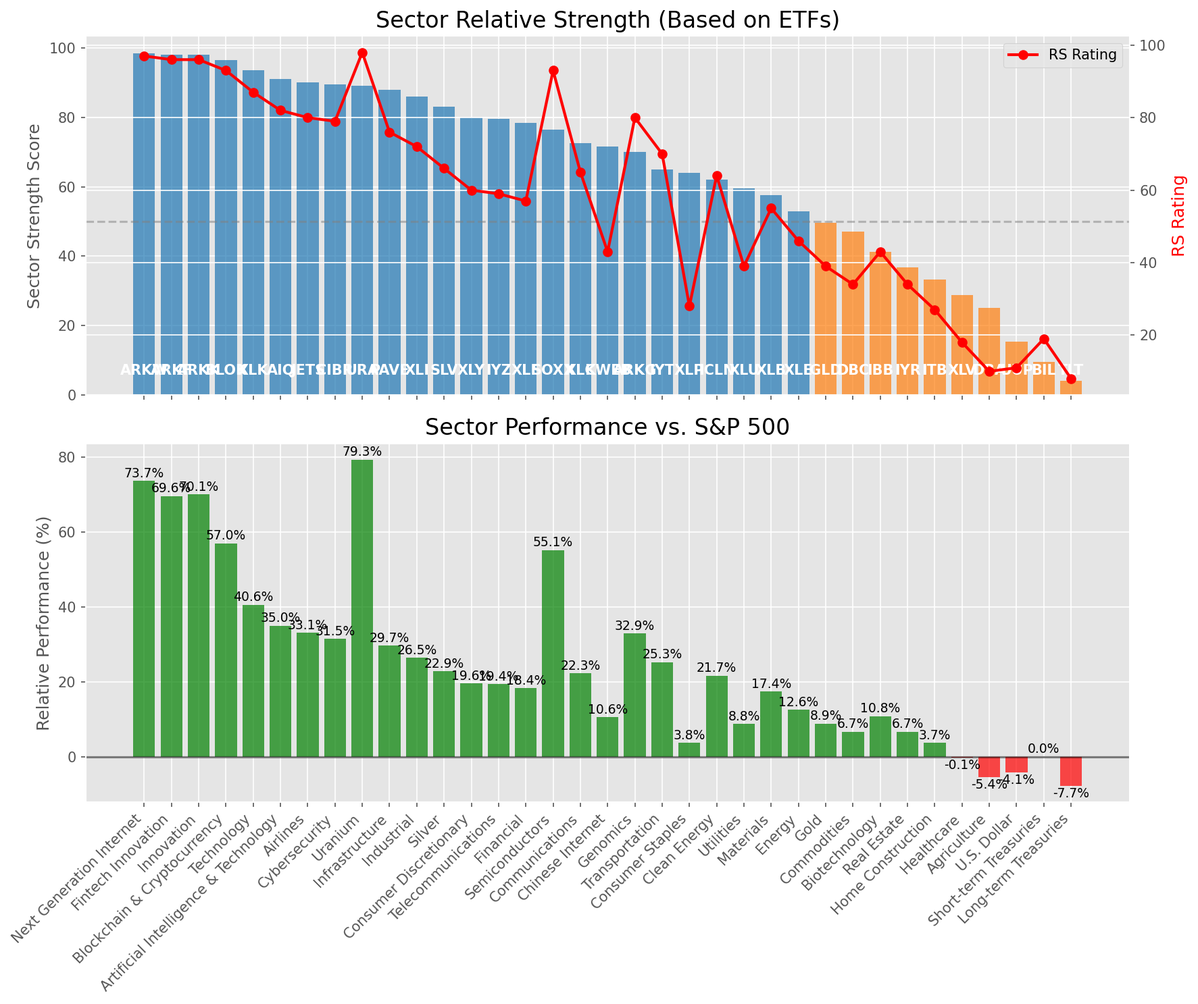
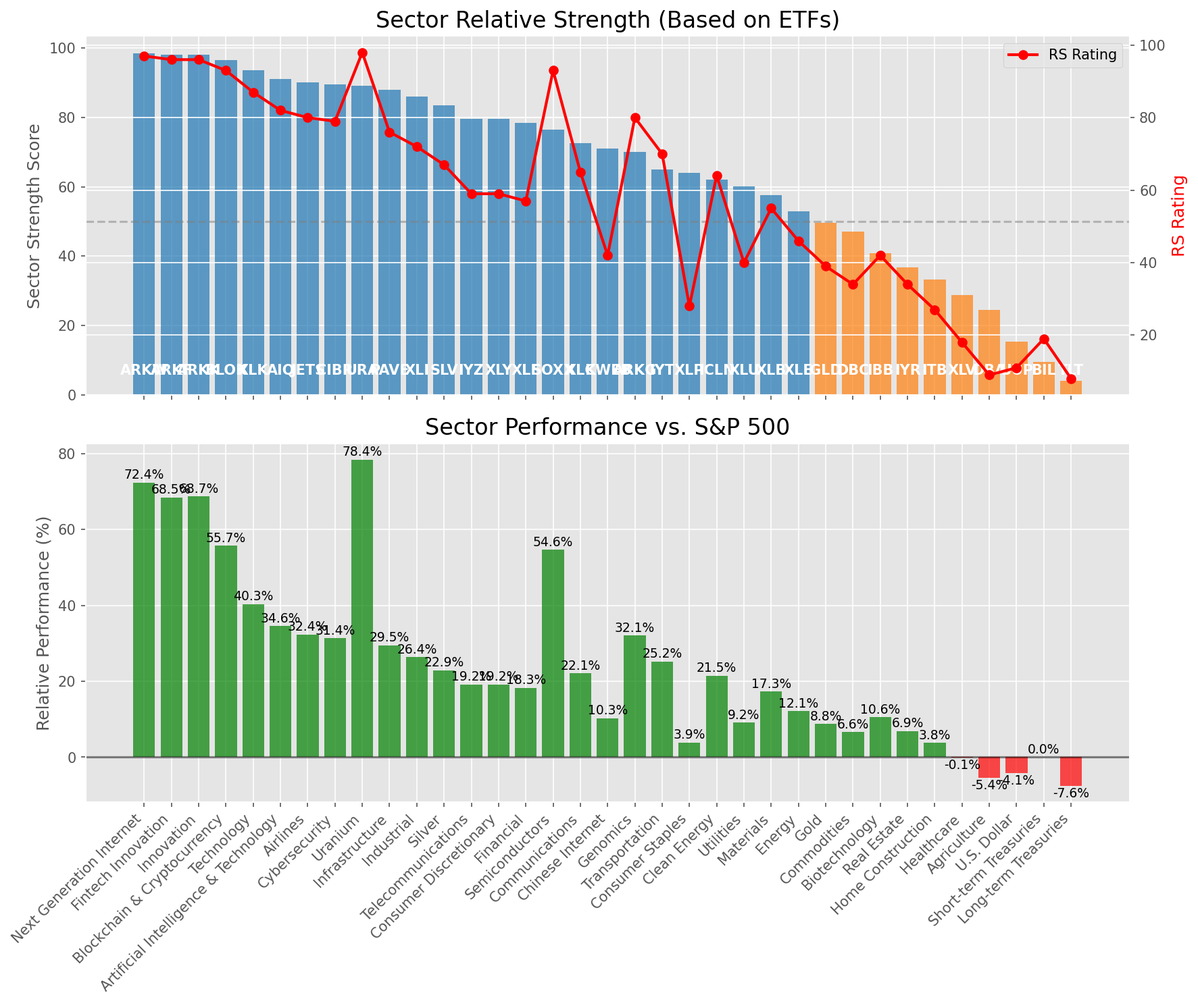
Add market report for 2025-07-08

diff --git a/oneil_relative_strength_report_2025-07-08.md b/oneil_relative_strength_report_2025-07-08.md
@@ -9,11 +9,11 @@
 | Metric | Value |
 |--------|-------|
 | **Market Valuation** | **Overvalued** |
-| **Current Ratio** | 10.21 |
+| **Current Ratio** | 10.20 |
 | **Historical Mean** | 9.41 |
 | **Standard Deviation** | 0.50 |
 | **Z-Score (StdDev from Mean)** | 1.59 |
-| **Total Market Cap** | $306.05 trillion |
+| **Total Market Cap** | $305.58 trillion |
 | **GDP** | $29.96 trillion |
 
 ## **Market Insights**
@@ -49,41 +49,41 @@ Based on William O'Neil's Relative Strength Methodology
 
 | ETF | Strength | RS Rating | Performance | Above Key MAs | Trend | Sector |
 |-----|----------|-----------|-------------|--------------|-------|--------|
-| [ARKW](https://www.tradingview.com/chart/?symbol=ARKW) | 98.5 | 97.0 | 73.66% | 10d ✓, 50d ✓, 200d ✓ | ↗ | Next Generation Internet |
-| [ARKF](https://www.tradingview.com/chart/?symbol=ARKF) | 98.0 | 96.0 | 69.58% | 10d ✓, 50d ✓, 200d ✓ | ↗ | Fintech Innovation |
-| [ARKK](https://www.tradingview.com/chart/?symbol=ARKK) | 98.0 | 96.0 | 70.08% | 10d ✓, 50d ✓, 200d ✓ | ↗ | Innovation |
-| [BLOK](https://www.tradingview.com/chart/?symbol=BLOK) | 96.5 | 93.0 | 56.97% | 10d ✓, 50d ✓, 200d ✓ | ↗ | Blockchain & Cryptocurrency |
-| [XLK](https://www.tradingview.com/chart/?symbol=XLK) | 93.5 | 87.0 | 40.61% | 10d ✓, 50d ✓, 200d ✓ | ↗ | Technology |
-| [AIQ](https://www.tradingview.com/chart/?symbol=AIQ) | 91.0 | 82.0 | 35.05% | 10d ✓, 50d ✓, 200d ✓ | ↗ | Artificial Intelligence & Technology |
-| [JETS](https://www.tradingview.com/chart/?symbol=JETS) | 90.0 | 80.0 | 33.08% | 10d ✓, 50d ✓, 200d ✓ | ↗ | Airlines |
-| [CIBR](https://www.tradingview.com/chart/?symbol=CIBR) | 89.5 | 79.0 | 31.49% | 10d ✓, 50d ✓, 200d ✓ | ↗ | Cybersecurity |
-| [URA](https://www.tradingview.com/chart/?symbol=URA) | 89.1 | 98.0 | 79.30% | 10d ✗, 50d ✓, 200d ✓ | ↗ | Uranium |
-| [PAVE](https://www.tradingview.com/chart/?symbol=PAVE) | 88.0 | 76.0 | 29.69% | 10d ✓, 50d ✓, 200d ✓ | ↗ | Infrastructure |
-| [XLI](https://www.tradingview.com/chart/?symbol=XLI) | 86.0 | 72.0 | 26.46% | 10d ✓, 50d ✓, 200d ✓ | ↗ | Industrial |
-| [SLV](https://www.tradingview.com/chart/?symbol=SLV) | 83.0 | 66.0 | 22.90% | 10d ✓, 50d ✓, 200d ✓ | ↗ | Silver |
-| [XLY](https://www.tradingview.com/chart/?symbol=XLY) | 80.0 | 60.0 | 19.59% | 10d ✓, 50d ✓, 200d ✓ | ↗ | Consumer Discretionary |
-| [IYZ](https://www.tradingview.com/chart/?symbol=IYZ) | 79.5 | 59.0 | 19.41% | 10d ✓, 50d ✓, 200d ✓ | ↗ | Telecommunications |
-| [XLF](https://www.tradingview.com/chart/?symbol=XLF) | 78.5 | 57.0 | 18.39% | 10d ✓, 50d ✓, 200d ✓ | ↗ | Financial |
-| [SOXX](https://www.tradingview.com/chart/?symbol=SOXX) | 76.5 | 93.0 | 55.14% | 10d ✓, 50d ✓, 200d ✓ | ↘ | Semiconductors |
-| [XLC](https://www.tradingview.com/chart/?symbol=XLC) | 72.6 | 65.0 | 22.34% | 10d ✗, 50d ✓, 200d ✓ | ↗ | Communications |
-| [KWEB](https://www.tradingview.com/chart/?symbol=KWEB) | 71.5 | 43.0 | 10.60% | 10d ✓, 50d ✓, 200d ✓ | ↗ | Chinese Internet |
-| [ARKG](https://www.tradingview.com/chart/?symbol=ARKG) | 70.0 | 80.0 | 32.92% | 10d ✓, 50d ✓, 200d ✓ | ↘ | Genomics |
-| [IYT](https://www.tradingview.com/chart/?symbol=IYT) | 65.0 | 70.0 | 25.30% | 10d ✓, 50d ✓, 200d ✓ | ↘ | Transportation |
-| [XLP](https://www.tradingview.com/chart/?symbol=XLP) | 64.0 | 28.0 | 3.79% | 10d ✓, 50d ✓, 200d ✓ | ↗ | Consumer Staples |
-| [ICLN](https://www.tradingview.com/chart/?symbol=ICLN) | 62.0 | 64.0 | 21.69% | 10d ✓, 50d ✓, 200d ✓ | ↘ | Clean Energy |
-| [XLU](https://www.tradingview.com/chart/?symbol=XLU) | 59.6 | 39.0 | 8.80% | 10d ✗, 50d ✓, 200d ✓ | ↗ | Utilities |
-| [XLB](https://www.tradingview.com/chart/?symbol=XLB) | 57.5 | 55.0 | 17.42% | 10d ✓, 50d ✓, 200d ✓ | ↘ | Materials |
-| [XLE](https://www.tradingview.com/chart/?symbol=XLE) | 53.0 | 46.0 | 12.57% | 10d ✓, 50d ✓, 200d ✓ | ↘ | Energy |
-| [GLD](https://www.tradingview.com/chart/?symbol=GLD) | 49.7 | 39.0 | 8.85% | 10d ✗, 50d ✗, 200d ✓ | ↗ | Gold |
-| [DBC](https://www.tradingview.com/chart/?symbol=DBC) | 47.0 | 34.0 | 6.73% | 10d ✓, 50d ✓, 200d ✓ | ↘ | Commodities |
-| [IBB](https://www.tradingview.com/chart/?symbol=IBB) | 41.3 | 43.0 | 10.84% | 10d ✓, 50d ✓, 200d ✗ | ↘ | Biotechnology |
-| [IYR](https://www.tradingview.com/chart/?symbol=IYR) | 36.8 | 34.0 | 6.72% | 10d ✓, 50d ✓, 200d ✗ | ↘ | Real Estate |
-| [ITB](https://www.tradingview.com/chart/?symbol=ITB) | 33.3 | 27.0 | 3.73% | 10d ✓, 50d ✓, 200d ✗ | ↘ | Home Construction |
-| [XLV](https://www.tradingview.com/chart/?symbol=XLV) | 28.8 | 18.0 | -0.14% | 10d ✓, 50d ✓, 200d ✗ | ↘ | Healthcare |
-| [DBA](https://www.tradingview.com/chart/?symbol=DBA) | 25.0 | 10.0 | -5.41% | 10d ✗, 50d ✗, 200d ✗ | ↗ | Agriculture |
-| [UUP](https://www.tradingview.com/chart/?symbol=UUP) | 15.4 | 11.0 | -4.10% | 10d ✓, 50d ✗, 200d ✗ | ↘ | U.S. Dollar |
-| [BIL](https://www.tradingview.com/chart/?symbol=BIL) | 9.5 | 19.0 | 0.03% | 10d ✗, 50d ✗, 200d ✗ | ↘ | Short-term Treasuries |
-| [TLT](https://www.tradingview.com/chart/?symbol=TLT) | 4.0 | 8.0 | -7.73% | 10d ✗, 50d ✗, 200d ✗ | ↘ | Long-term Treasuries |
+| [ARKW](https://www.tradingview.com/chart/?symbol=ARKW) | 98.5 | 97.0 | 72.41% | 10d ✓, 50d ✓, 200d ✓ | ↗ | Next Generation Internet |
+| [ARKF](https://www.tradingview.com/chart/?symbol=ARKF) | 98.0 | 96.0 | 68.47% | 10d ✓, 50d ✓, 200d ✓ | ↗ | Fintech Innovation |
+| [ARKK](https://www.tradingview.com/chart/?symbol=ARKK) | 98.0 | 96.0 | 68.72% | 10d ✓, 50d ✓, 200d ✓ | ↗ | Innovation |
+| [BLOK](https://www.tradingview.com/chart/?symbol=BLOK) | 96.5 | 93.0 | 55.71% | 10d ✓, 50d ✓, 200d ✓ | ↗ | Blockchain & Cryptocurrency |
+| [XLK](https://www.tradingview.com/chart/?symbol=XLK) | 93.5 | 87.0 | 40.34% | 10d ✓, 50d ✓, 200d ✓ | ↗ | Technology |
+| [AIQ](https://www.tradingview.com/chart/?symbol=AIQ) | 91.0 | 82.0 | 34.60% | 10d ✓, 50d ✓, 200d ✓ | ↗ | Artificial Intelligence & Technology |
+| [JETS](https://www.tradingview.com/chart/?symbol=JETS) | 90.0 | 80.0 | 32.36% | 10d ✓, 50d ✓, 200d ✓ | ↗ | Airlines |
+| [CIBR](https://www.tradingview.com/chart/?symbol=CIBR) | 89.5 | 79.0 | 31.39% | 10d ✓, 50d ✓, 200d ✓ | ↗ | Cybersecurity |
+| [URA](https://www.tradingview.com/chart/?symbol=URA) | 89.1 | 98.0 | 78.41% | 10d ✗, 50d ✓, 200d ✓ | ↗ | Uranium |
+| [PAVE](https://www.tradingview.com/chart/?symbol=PAVE) | 88.0 | 76.0 | 29.51% | 10d ✓, 50d ✓, 200d ✓ | ↗ | Infrastructure |
+| [XLI](https://www.tradingview.com/chart/?symbol=XLI) | 86.0 | 72.0 | 26.36% | 10d ✓, 50d ✓, 200d ✓ | ↗ | Industrial |
+| [SLV](https://www.tradingview.com/chart/?symbol=SLV) | 83.5 | 67.0 | 22.90% | 10d ✓, 50d ✓, 200d ✓ | ↗ | Silver |
+| [IYZ](https://www.tradingview.com/chart/?symbol=IYZ) | 79.5 | 59.0 | 19.17% | 10d ✓, 50d ✓, 200d ✓ | ↗ | Telecommunications |
+| [XLY](https://www.tradingview.com/chart/?symbol=XLY) | 79.5 | 59.0 | 19.20% | 10d ✓, 50d ✓, 200d ✓ | ↗ | Consumer Discretionary |
+| [XLF](https://www.tradingview.com/chart/?symbol=XLF) | 78.5 | 57.0 | 18.27% | 10d ✓, 50d ✓, 200d ✓ | ↗ | Financial |
+| [SOXX](https://www.tradingview.com/chart/?symbol=SOXX) | 76.5 | 93.0 | 54.64% | 10d ✓, 50d ✓, 200d ✓ | ↘ | Semiconductors |
+| [XLC](https://www.tradingview.com/chart/?symbol=XLC) | 72.6 | 65.0 | 22.14% | 10d ✗, 50d ✓, 200d ✓ | ↗ | Communications |
+| [KWEB](https://www.tradingview.com/chart/?symbol=KWEB) | 71.0 | 42.0 | 10.28% | 10d ✓, 50d ✓, 200d ✓ | ↗ | Chinese Internet |
+| [ARKG](https://www.tradingview.com/chart/?symbol=ARKG) | 70.0 | 80.0 | 32.05% | 10d ✓, 50d ✓, 200d ✓ | ↘ | Genomics |
+| [IYT](https://www.tradingview.com/chart/?symbol=IYT) | 65.0 | 70.0 | 25.18% | 10d ✓, 50d ✓, 200d ✓ | ↘ | Transportation |
+| [XLP](https://www.tradingview.com/chart/?symbol=XLP) | 64.0 | 28.0 | 3.87% | 10d ✓, 50d ✓, 200d ✓ | ↗ | Consumer Staples |
+| [ICLN](https://www.tradingview.com/chart/?symbol=ICLN) | 62.0 | 64.0 | 21.51% | 10d ✓, 50d ✓, 200d ✓ | ↘ | Clean Energy |
+| [XLU](https://www.tradingview.com/chart/?symbol=XLU) | 60.1 | 40.0 | 9.15% | 10d ✗, 50d ✓, 200d ✓ | ↗ | Utilities |
+| [XLB](https://www.tradingview.com/chart/?symbol=XLB) | 57.5 | 55.0 | 17.26% | 10d ✓, 50d ✓, 200d ✓ | ↘ | Materials |
+| [XLE](https://www.tradingview.com/chart/?symbol=XLE) | 53.0 | 46.0 | 12.11% | 10d ✓, 50d ✓, 200d ✓ | ↘ | Energy |
+| [GLD](https://www.tradingview.com/chart/?symbol=GLD) | 49.7 | 39.0 | 8.79% | 10d ✗, 50d ✗, 200d ✓ | ↗ | Gold |
+| [DBC](https://www.tradingview.com/chart/?symbol=DBC) | 47.0 | 34.0 | 6.59% | 10d ✓, 50d ✓, 200d ✓ | ↘ | Commodities |
+| [IBB](https://www.tradingview.com/chart/?symbol=IBB) | 40.8 | 42.0 | 10.56% | 10d ✓, 50d ✓, 200d ✗ | ↘ | Biotechnology |
+| [IYR](https://www.tradingview.com/chart/?symbol=IYR) | 36.8 | 34.0 | 6.86% | 10d ✓, 50d ✓, 200d ✗ | ↘ | Real Estate |
+| [ITB](https://www.tradingview.com/chart/?symbol=ITB) | 33.3 | 27.0 | 3.76% | 10d ✓, 50d ✓, 200d ✗ | ↘ | Home Construction |
+| [XLV](https://www.tradingview.com/chart/?symbol=XLV) | 28.8 | 18.0 | -0.13% | 10d ✓, 50d ✓, 200d ✗ | ↘ | Healthcare |
+| [DBA](https://www.tradingview.com/chart/?symbol=DBA) | 24.5 | 9.0 | -5.41% | 10d ✗, 50d ✗, 200d ✗ | ↗ | Agriculture |
+| [UUP](https://www.tradingview.com/chart/?symbol=UUP) | 15.4 | 11.0 | -4.12% | 10d ✓, 50d ✗, 200d ✗ | ↘ | U.S. Dollar |
+| [BIL](https://www.tradingview.com/chart/?symbol=BIL) | 9.5 | 19.0 | 0.04% | 10d ✗, 50d ✗, 200d ✗ | ↘ | Short-term Treasuries |
+| [TLT](https://www.tradingview.com/chart/?symbol=TLT) | 4.0 | 8.0 | -7.57% | 10d ✗, 50d ✗, 200d ✗ | ↘ | Long-term Treasuries |
 
 ### **Sector ETF Performance Interpretation**
 
@@ -100,163 +100,157 @@ This table shows the relative strength metrics for different market sectors base
 
 The current market leadership is coming from the following sectors: **Next Generation Internet, Fintech Innovation, Innovation**.
 
-The **Next Generation Internet** sector (represented by **ARKW**) is showing particularly strong relative strength with an RS rating of 97.0 and performance of 73.66% vs. the S&P 500. This sector is trading above its 10-day, 50-day, 200-day moving average(s). Investors should consider focusing on high RS stocks within these leading sectors for potential outperformance.
+The **Next Generation Internet** sector (represented by **ARKW**) is showing particularly strong relative strength with an RS rating of 97.0 and performance of 72.41% vs. the S&P 500. This sector is trading above its 10-day, 50-day, 200-day moving average(s). Investors should consider focusing on high RS stocks within these leading sectors for potential outperformance.
 
 ---
 
 ## **Buy Recommendations**
 
-The following 43 stocks show exceptional relative strength:
+The following 38 stocks show exceptional relative strength:
 
 | RS Rating | Buy Score | Current Price | Chart | Name | Ticker |
 |-----------|-----------|---------------|-------|------|--------|
-| 100 | 100 | $154.93 | [Chart](https://www.tradingview.com/chart/?symbol=CLS) | Celestica, Inc. | CLS |
-| 100 | 100 | $178.52 | [Chart](https://www.tradingview.com/chart/?symbol=LEU) | Centrus Energy Corp. | LEU |
-| 100 | 100 | $92.69 | [Chart](https://www.tradingview.com/chart/?symbol=HOOD) | Robinhood Markets, Inc. Class A Common Stock | HOOD |
-| 100 | 100 | $267.08 | [Chart](https://www.tradingview.com/chart/?symbol=DAVE) | Dave Inc. Class A Common Stock | DAVE |
-| 100 | 100 | $37.30 | [Chart](https://www.tradingview.com/chart/?symbol=GRPN) | Groupon, Inc.Common Stock | GRPN |
-| 99 | 100 | $529.69 | [Chart](https://www.tradingview.com/chart/?symbol=GEV) | GE Vernova Inc. | GEV |
-| 99 | 100 | $74.25 | [Chart](https://www.tradingview.com/chart/?symbol=ODD) | ODDITY Tech Ltd. Class A Ordinary Shares | ODD |
-| 99 | 100 | $192.38 | [Chart](https://www.tradingview.com/chart/?symbol=NET) | Cloudflare, Inc. Class A common stock, par value $0.001 per share | NET |
-| 99 | 100 | $104.73 | [Chart](https://www.tradingview.com/chart/?symbol=RBLX) | Roblox Corporation | RBLX |
-| 99 | 100 | $145.02 | [Chart](https://www.tradingview.com/chart/?symbol=LMB) | Limbach Holdings, Inc Common Stock | LMB |
-| 99 | 100 | $346.51 | [Chart](https://www.tradingview.com/chart/?symbol=CVNA) | Carvana Co. | CVNA |
-| 98 | 100 | $139.33 | [Chart](https://www.tradingview.com/chart/?symbol=PLTR) | Palantir Technologies Inc. Class A Common Stock | PLTR |
-| 97 | 100 | $43.96 | [Chart](https://www.tradingview.com/chart/?symbol=FARO) | Faro Technologies Inc | FARO |
-| 96 | 100 | $50.50 | [Chart](https://www.tradingview.com/chart/?symbol=ARKF) | ARK Fintech Innovation ETF | ARKF |
-| 96 | 100 | $51.11 | [Chart](https://www.tradingview.com/chart/?symbol=INOD) | Innodata Inc. | INOD |
-| 95 | 100 | $179.52 | [Chart](https://www.tradingview.com/chart/?symbol=HWM) | Howmet Aerospace Inc. | HWM |
-| 94 | 100 | $507.00 | [Chart](https://www.tradingview.com/chart/?symbol=CRWD) | CrowdStrike Holdings, Inc. Class A Common Stock | CRWD |
-| 94 | 100 | $34.16 | [Chart](https://www.tradingview.com/chart/?symbol=APG) | APi Group Corporation | APG |
-| 94 | 100 | $131.97 | [Chart](https://www.tradingview.com/chart/?symbol=FUTU) | Futu Holdings Limited American Depositary Shares | FUTU |
-| 94 | 100 | $250.16 | [Chart](https://www.tradingview.com/chart/?symbol=WWD) | Woodward, Inc. | WWD |
-| 94 | 100 | $44.32 | [Chart](https://www.tradingview.com/chart/?symbol=KTOS) | Kratos Defense & Security Solutions, Inc. | KTOS |
-| 93 | 100 | $46.28 | [Chart](https://www.tradingview.com/chart/?symbol=DRS) | Leonardo DRS, Inc. Common Stock | DRS |
-| 93 | 100 | $57.37 | [Chart](https://www.tradingview.com/chart/?symbol=IBKR) | Interactive Brokers Group, Inc. Class A Common Stock | IBKR |
-| 92 | 100 | $30.08 | [Chart](https://www.tradingview.com/chart/?symbol=NTGR) | NETGEAR, Inc. | NTGR |
-| 92 | 100 | $43.42 | [Chart](https://www.tradingview.com/chart/?symbol=KD) | Kyndryl Holdings, Inc. | KD |
-| 90 | 100 | $92.16 | [Chart](https://www.tradingview.com/chart/?symbol=TPR) | Tapestry, Inc. Common Stock | TPR |
-| 89 | 100 | $286.35 | [Chart](https://www.tradingview.com/chart/?symbol=RL) | Ralph Lauren Corporation | RL |
-| 88 | 100 | $29.42 | [Chart](https://www.tradingview.com/chart/?symbol=DB) | Deutsche Bank Aktiengesellschaft | DB |
-| 87 | 100 | $28.55 | [Chart](https://www.tradingview.com/chart/?symbol=SRAD) | Sportradar Group AG Class A Ordinary Shares | SRAD |
-| 86 | 99 | $18.34 | [Chart](https://www.tradingview.com/chart/?symbol=BCS) | Barclays PLC | BCS |
+| 100 | 100 | $91.47 | [Chart](https://www.tradingview.com/chart/?symbol=HOOD) | Robinhood Markets, Inc. Class A Common Stock | HOOD |
+| 100 | 100 | $154.49 | [Chart](https://www.tradingview.com/chart/?symbol=CLS) | Celestica, Inc. | CLS |
+| 100 | 100 | $261.25 | [Chart](https://www.tradingview.com/chart/?symbol=DAVE) | Dave Inc. Class A Common Stock | DAVE |
+| 100 | 100 | $36.92 | [Chart](https://www.tradingview.com/chart/?symbol=GRPN) | Groupon, Inc.Common Stock | GRPN |
+| 99 | 100 | $143.84 | [Chart](https://www.tradingview.com/chart/?symbol=LMB) | Limbach Holdings, Inc Common Stock | LMB |
+| 99 | 100 | $104.56 | [Chart](https://www.tradingview.com/chart/?symbol=RBLX) | Roblox Corporation | RBLX |
+| 99 | 100 | $345.50 | [Chart](https://www.tradingview.com/chart/?symbol=CVNA) | Carvana Co. | CVNA |
+| 99 | 100 | $528.52 | [Chart](https://www.tradingview.com/chart/?symbol=GEV) | GE Vernova Inc. | GEV |
+| 99 | 100 | $192.39 | [Chart](https://www.tradingview.com/chart/?symbol=NET) | Cloudflare, Inc. Class A common stock, par value $0.001 per share | NET |
+| 98 | 100 | $139.12 | [Chart](https://www.tradingview.com/chart/?symbol=PLTR) | Palantir Technologies Inc. Class A Common Stock | PLTR |
+| 97 | 100 | $43.95 | [Chart](https://www.tradingview.com/chart/?symbol=FARO) | Faro Technologies Inc | FARO |
+| 96 | 100 | $50.17 | [Chart](https://www.tradingview.com/chart/?symbol=ARKF) | ARK Fintech Innovation ETF | ARKF |
+| 96 | 100 | $50.84 | [Chart](https://www.tradingview.com/chart/?symbol=INOD) | Innodata Inc. | INOD |
+| 95 | 100 | $44.41 | [Chart](https://www.tradingview.com/chart/?symbol=KTOS) | Kratos Defense & Security Solutions, Inc. | KTOS |
+| 94 | 100 | $506.00 | [Chart](https://www.tradingview.com/chart/?symbol=CRWD) | CrowdStrike Holdings, Inc. Class A Common Stock | CRWD |
+| 94 | 100 | $249.92 | [Chart](https://www.tradingview.com/chart/?symbol=WWD) | Woodward, Inc. | WWD |
+| 94 | 100 | $34.14 | [Chart](https://www.tradingview.com/chart/?symbol=APG) | APi Group Corporation | APG |
+| 94 | 100 | $131.31 | [Chart](https://www.tradingview.com/chart/?symbol=FUTU) | Futu Holdings Limited American Depositary Shares | FUTU |
+| 93 | 100 | $46.37 | [Chart](https://www.tradingview.com/chart/?symbol=DRS) | Leonardo DRS, Inc. Common Stock | DRS |
+| 93 | 100 | $56.98 | [Chart](https://www.tradingview.com/chart/?symbol=IBKR) | Interactive Brokers Group, Inc. Class A Common Stock | IBKR |
+| 92 | 100 | $30.04 | [Chart](https://www.tradingview.com/chart/?symbol=NTGR) | NETGEAR, Inc. | NTGR |
+| 92 | 100 | $43.44 | [Chart](https://www.tradingview.com/chart/?symbol=KD) | Kyndryl Holdings, Inc. | KD |
+| 90 | 100 | $91.99 | [Chart](https://www.tradingview.com/chart/?symbol=TPR) | Tapestry, Inc. Common Stock | TPR |
+| 89 | 100 | $29.43 | [Chart](https://www.tradingview.com/chart/?symbol=DB) | Deutsche Bank Aktiengesellschaft | DB |
+| 89 | 100 | $285.46 | [Chart](https://www.tradingview.com/chart/?symbol=RL) | Ralph Lauren Corporation | RL |
+| 87 | 100 | $28.73 | [Chart](https://www.tradingview.com/chart/?symbol=SRAD) | Sportradar Group AG Class A Ordinary Shares | SRAD |
 | 86 | 99 | $29.97 | [Chart](https://www.tradingview.com/chart/?symbol=CAE) | CAE INC | CAE |
-| 85 | 99 | $96.15 | [Chart](https://www.tradingview.com/chart/?symbol=SNEX) | StoneX Group Inc. Common Stock | SNEX |
-| 86 | 98 | $63.52 | [Chart](https://www.tradingview.com/chart/?symbol=CAKE) | Cheesecake Factory (The) | CAKE |
-| 86 | 97 | $25.16 | [Chart](https://www.tradingview.com/chart/?symbol=KAR) | OPENLANE, Inc | KAR |
-| 84 | 96 | $59.75 | [Chart](https://www.tradingview.com/chart/?symbol=SHLD) | Global X Defense Tech ETF | SHLD |
-| 86 | 95 | $65.72 | [Chart](https://www.tradingview.com/chart/?symbol=RYTM) | Rhythm Pharmaceuticals, Inc. Common Stock | RYTM |
-| 84 | 95 | $76.36 | [Chart](https://www.tradingview.com/chart/?symbol=CTVA) | Corteva, Inc. Common Stock | CTVA |
-| 83 | 94 | $133.73 | [Chart](https://www.tradingview.com/chart/?symbol=NTES) | NetEase, inc. | NTES |
-| 83 | 93 | $111.53 | [Chart](https://www.tradingview.com/chart/?symbol=SPMO) | Invesco S&P 500 Momentum ETF | SPMO |
-| 83 | 93 | $35.42 | [Chart](https://www.tradingview.com/chart/?symbol=ATAT) | Atour Lifestyle Holdings Limited American Depositary Shares | ATAT |
-| 81 | 92 | $5721.65 | [Chart](https://www.tradingview.com/chart/?symbol=BKNG) | Booking Holdings Inc. Common Stock | BKNG |
-| 81 | 91 | $81.80 | [Chart](https://www.tradingview.com/chart/?symbol=WFC) | Wells Fargo & Co. | WFC |
-| 80 | 90 | $267.45 | [Chart](https://www.tradingview.com/chart/?symbol=FDN) | First Trust Dow Jones Internet Index Fund ETF | FDN |
+| 86 | 99 | $18.30 | [Chart](https://www.tradingview.com/chart/?symbol=BCS) | Barclays PLC | BCS |
+| 85 | 99 | $96.00 | [Chart](https://www.tradingview.com/chart/?symbol=SNEX) | StoneX Group Inc. Common Stock | SNEX |
+| 86 | 98 | $63.47 | [Chart](https://www.tradingview.com/chart/?symbol=CAKE) | Cheesecake Factory (The) | CAKE |
+| 86 | 97 | $25.14 | [Chart](https://www.tradingview.com/chart/?symbol=KAR) | OPENLANE, Inc | KAR |
+| 84 | 96 | $59.71 | [Chart](https://www.tradingview.com/chart/?symbol=SHLD) | Global X Defense Tech ETF | SHLD |
+| 86 | 95 | $65.70 | [Chart](https://www.tradingview.com/chart/?symbol=RYTM) | Rhythm Pharmaceuticals, Inc. Common Stock | RYTM |
+| 84 | 95 | $76.46 | [Chart](https://www.tradingview.com/chart/?symbol=CTVA) | Corteva, Inc. Common Stock | CTVA |
+| 83 | 93 | $35.40 | [Chart](https://www.tradingview.com/chart/?symbol=ATAT) | Atour Lifestyle Holdings Limited American Depositary Shares | ATAT |
+| 82 | 92 | $81.75 | [Chart](https://www.tradingview.com/chart/?symbol=WFC) | Wells Fargo & Co. | WFC |
+| 81 | 92 | $5712.29 | [Chart](https://www.tradingview.com/chart/?symbol=BKNG) | Booking Holdings Inc. Common Stock | BKNG |
+| 80 | 90 | $266.72 | [Chart](https://www.tradingview.com/chart/?symbol=FDN) | First Trust Dow Jones Internet Index Fund ETF | FDN |
 
 ---
 
 
 ## **Sell Recommendations**
 
-The following 94 stocks show deteriorating relative strength:
+The following 93 stocks show deteriorating relative strength:
 
 | RS Rating | Sell Score | Current Price | Chart | Name | Ticker |
 |-----------|------------|---------------|-------|------|--------|
-| 1 | 100 | $14.20 | [Chart](https://www.tradingview.com/chart/?symbol=NVDS) | Investment Managers Series Trust II Tradr 1.5X Short NVDA Daily ETF | NVDS |
-| 1 | 100 | $25.76 | [Chart](https://www.tradingview.com/chart/?symbol=TECS) | Direxion Daily Technology Bear 3x Shares | TECS |
-| 1 | 100 | $40.89 | [Chart](https://www.tradingview.com/chart/?symbol=SDOW) | ProShares UltraPro Short Dow 30 | SDOW |
-| 1 | 100 | $25.22 | [Chart](https://www.tradingview.com/chart/?symbol=QID) | ProShares UltraShort QQQ | QID |
-| 2 | 100 | $16.52 | [Chart](https://www.tradingview.com/chart/?symbol=SDS) | ProShares UltraShort S&P500 | SDS |
-| 2 | 100 | $25.12 | [Chart](https://www.tradingview.com/chart/?symbol=ZSL) | ProShares UltraShort Silver | ZSL |
-| 2 | 100 | $33.62 | [Chart](https://www.tradingview.com/chart/?symbol=PSQ) | ProShares Short QQQ | PSQ |
-| 2 | 100 | $19.39 | [Chart](https://www.tradingview.com/chart/?symbol=BITI) | ProShares Short Bitcoin ETF | BITI |
-| 2 | 100 | $24.02 | [Chart](https://www.tradingview.com/chart/?symbol=DXD) | ProShares UltraShort Dow 30 | DXD |
-| 2 | 100 | $35.18 | [Chart](https://www.tradingview.com/chart/?symbol=SARK) | Investment Managers Series Trust II Tradr 1X Short Innovation Daily ETF | SARK |
-| 2 | 100 | $13.09 | [Chart](https://www.tradingview.com/chart/?symbol=IART) | Integra LifeSciences Holdings | IART |
-| 3 | 100 | $39.53 | [Chart](https://www.tradingview.com/chart/?symbol=SH) | ProShares Short S&P500 | SH |
-| 3 | 100 | $139.74 | [Chart](https://www.tradingview.com/chart/?symbol=KRYS) | Krystal Biotech, Inc. Common Stock | KRYS |
-| 3 | 100 | $24.93 | [Chart](https://www.tradingview.com/chart/?symbol=CRTO) | Criteo S.A. | CRTO |
-| 3 | 100 | $44.01 | [Chart](https://www.tradingview.com/chart/?symbol=LINE) | Lineage, Inc. Common Stock | LINE |
-| 3 | 100 | $35.33 | [Chart](https://www.tradingview.com/chart/?symbol=IBTA) | Ibotta, Inc. | IBTA |
-| 4 | 100 | $25.39 | [Chart](https://www.tradingview.com/chart/?symbol=DOG) | ProShares Short Dow30 | DOG |
-| 4 | 100 | $51.22 | [Chart](https://www.tradingview.com/chart/?symbol=ASGN) | ASGN Incorporated | ASGN |
+| 1 | 100 | $25.34 | [Chart](https://www.tradingview.com/chart/?symbol=QID) | ProShares UltraShort QQQ | QID |
+| 1 | 100 | $14.21 | [Chart](https://www.tradingview.com/chart/?symbol=NVDS) | Investment Managers Series Trust II Tradr 1.5X Short NVDA Daily ETF | NVDS |
+| 1 | 100 | $41.00 | [Chart](https://www.tradingview.com/chart/?symbol=SDOW) | ProShares UltraPro Short Dow 30 | SDOW |
+| 1 | 100 | $25.91 | [Chart](https://www.tradingview.com/chart/?symbol=TECS) | Direxion Daily Technology Bear 3x Shares | TECS |
+| 2 | 100 | $24.05 | [Chart](https://www.tradingview.com/chart/?symbol=DXD) | ProShares UltraShort Dow 30 | DXD |
+| 2 | 100 | $16.56 | [Chart](https://www.tradingview.com/chart/?symbol=SDS) | ProShares UltraShort S&P500 | SDS |
+| 2 | 100 | $19.41 | [Chart](https://www.tradingview.com/chart/?symbol=BITI) | ProShares Short Bitcoin ETF | BITI |
+| 2 | 100 | $33.69 | [Chart](https://www.tradingview.com/chart/?symbol=PSQ) | ProShares Short QQQ | PSQ |
+| 2 | 100 | $35.49 | [Chart](https://www.tradingview.com/chart/?symbol=SARK) | Investment Managers Series Trust II Tradr 1X Short Innovation Daily ETF | SARK |
+| 3 | 100 | $43.97 | [Chart](https://www.tradingview.com/chart/?symbol=LINE) | Lineage, Inc. Common Stock | LINE |
+| 3 | 100 | $24.82 | [Chart](https://www.tradingview.com/chart/?symbol=CRTO) | Criteo S.A. | CRTO |
+| 3 | 100 | $39.59 | [Chart](https://www.tradingview.com/chart/?symbol=SH) | ProShares Short S&P500 | SH |
+| 3 | 100 | $35.57 | [Chart](https://www.tradingview.com/chart/?symbol=IBTA) | Ibotta, Inc. | IBTA |
 | 4 | 100 | $10.26 | [Chart](https://www.tradingview.com/chart/?symbol=LBTYK) | Liberty Global Ltd. Class C Common Shares | LBTYK |
+| 4 | 100 | $25.41 | [Chart](https://www.tradingview.com/chart/?symbol=DOG) | ProShares Short Dow30 | DOG |
 | 4 | 100 | $12.75 | [Chart](https://www.tradingview.com/chart/?symbol=CCRN) | Cross Country Healthcare Inc | CCRN |
-| 5 | 100 | $63.41 | [Chart](https://www.tradingview.com/chart/?symbol=ZROZ) | PIMCO 25+ Year Zero Coupon U.S. Treasury Index Exchange-Traded Fund | ZROZ |
-| 5 | 100 | $51.48 | [Chart](https://www.tradingview.com/chart/?symbol=LW) | Lamb Weston Holdings, Inc. | LW |
-| 6 | 100 | $17.93 | [Chart](https://www.tradingview.com/chart/?symbol=APLS) | Apellis Pharmaceuticals, Inc. Common Stock | APLS |
-| 6 | 100 | $13.73 | [Chart](https://www.tradingview.com/chart/?symbol=EIC) | Eagle Point Income Company Inc. | EIC |
-| 7 | 100 | $83.25 | [Chart](https://www.tradingview.com/chart/?symbol=LNTH) | Lantheus Holdings, Inc | LNTH |
-| 7 | 100 | $45.54 | [Chart](https://www.tradingview.com/chart/?symbol=CWT) | California Water Service | CWT |
-| 8 | 100 | $85.67 | [Chart](https://www.tradingview.com/chart/?symbol=TLT) | iShares 20+ Year Treasury Bond ETF | TLT |
-| 8 | 100 | $14.63 | [Chart](https://www.tradingview.com/chart/?symbol=VRE) | Veris Residential, Inc. | VRE |
-| 9 | 100 | $52.46 | [Chart](https://www.tradingview.com/chart/?symbol=CNMD) | CONMED Corporation | CNMD |
-| 9 | 100 | $38.52 | [Chart](https://www.tradingview.com/chart/?symbol=LKQ) | LKQ Corporation | LKQ |
-| 10 | 100 | $131.31 | [Chart](https://www.tradingview.com/chart/?symbol=KMB) | Kimberly-Clark Corp. | KMB |
-| 10 | 100 | $10.38 | [Chart](https://www.tradingview.com/chart/?symbol=NMZ) | Nuveen Municipal High Income Opportunity Fund | NMZ |
-| 11 | 100 | $40.77 | [Chart](https://www.tradingview.com/chart/?symbol=POR) | Portland General Electric Company | POR |
-| 12 | 100 | $10.33 | [Chart](https://www.tradingview.com/chart/?symbol=MUC) | BLACKROCK MUNIHOLDINGS CALIFORNIA QUALITY FUND, INC | MUC |
-| 13 | 100 | $14.38 | [Chart](https://www.tradingview.com/chart/?symbol=BMEZ) | BlackRock Health Sciences Term Trust | BMEZ |
-| 15 | 100 | $17.89 | [Chart](https://www.tradingview.com/chart/?symbol=ZTO) | ZTO Express (Cayman) Inc. American Depositary Shares, each representing one Class A ordinary share | ZTO |
-| 2 | 99 | $10.29 | [Chart](https://www.tradingview.com/chart/?symbol=EMBC) | Embecta Corp. Common Stock | EMBC |
-| 7 | 98 | $27.25 | [Chart](https://www.tradingview.com/chart/?symbol=GTY) | Getty Realty Corp. | GTY |
-| 9 | 98 | $61.88 | [Chart](https://www.tradingview.com/chart/?symbol=ELS) | Equity Lifestyle Properties, Inc. | ELS |
-| 10 | 98 | $15.00 | [Chart](https://www.tradingview.com/chart/?symbol=SEM) | SELECT MEDICAL HOLDINGS CORP | SEM |
-| 18 | 98 | $86.17 | [Chart](https://www.tradingview.com/chart/?symbol=SIGI) | Selective Insurance Group | SIGI |
-| 18 | 98 | $29.12 | [Chart](https://www.tradingview.com/chart/?symbol=SPTS) | SPDR Portfolio Short Term Treasury ETF | SPTS |
-| 8 | 97 | $48.16 | [Chart](https://www.tradingview.com/chart/?symbol=SNY) | Sanofi American Depositary Shares (Each representing one-half of one ordinary share) | SNY |
-| 8 | 97 | $26.71 | [Chart](https://www.tradingview.com/chart/?symbol=VCYT) | Veracyte, Inc. | VCYT |
-| 15 | 97 | $25.28 | [Chart](https://www.tradingview.com/chart/?symbol=SPAB) | SPDR Portfolio Aggregate Bond ETF | SPAB |
+| 5 | 100 | $63.68 | [Chart](https://www.tradingview.com/chart/?symbol=ZROZ) | PIMCO 25+ Year Zero Coupon U.S. Treasury Index Exchange-Traded Fund | ZROZ |
+| 5 | 100 | $17.80 | [Chart](https://www.tradingview.com/chart/?symbol=APLS) | Apellis Pharmaceuticals, Inc. Common Stock | APLS |
+| 5 | 100 | $51.81 | [Chart](https://www.tradingview.com/chart/?symbol=LW) | Lamb Weston Holdings, Inc. | LW |
+| 5 | 100 | $17.34 | [Chart](https://www.tradingview.com/chart/?symbol=HP) | Helmerich & Payne, Inc. | HP |
+| 6 | 100 | $33.55 | [Chart](https://www.tradingview.com/chart/?symbol=CYTK) | Cytokinetics Inc. | CYTK |
+| 6 | 100 | $82.69 | [Chart](https://www.tradingview.com/chart/?symbol=LNTH) | Lantheus Holdings, Inc | LNTH |
+| 6 | 100 | $13.75 | [Chart](https://www.tradingview.com/chart/?symbol=EIC) | Eagle Point Income Company Inc. | EIC |
+| 8 | 100 | $85.82 | [Chart](https://www.tradingview.com/chart/?symbol=TLT) | iShares 20+ Year Treasury Bond ETF | TLT |
+| 8 | 100 | $14.70 | [Chart](https://www.tradingview.com/chart/?symbol=VRE) | Veris Residential, Inc. | VRE |
+| 8 | 100 | $52.43 | [Chart](https://www.tradingview.com/chart/?symbol=CNMD) | CONMED Corporation | CNMD |
+| 9 | 100 | $45.63 | [Chart](https://www.tradingview.com/chart/?symbol=CWT) | California Water Service | CWT |
+| 10 | 100 | $40.79 | [Chart](https://www.tradingview.com/chart/?symbol=POR) | Portland General Electric Company | POR |
+| 10 | 100 | $10.39 | [Chart](https://www.tradingview.com/chart/?symbol=NMZ) | Nuveen Municipal High Income Opportunity Fund | NMZ |
+| 10 | 100 | $131.58 | [Chart](https://www.tradingview.com/chart/?symbol=KMB) | Kimberly-Clark Corp. | KMB |
+| 11 | 100 | $10.32 | [Chart](https://www.tradingview.com/chart/?symbol=MUC) | BLACKROCK MUNIHOLDINGS CALIFORNIA QUALITY FUND, INC | MUC |
+| 12 | 100 | $14.35 | [Chart](https://www.tradingview.com/chart/?symbol=BMEZ) | BlackRock Health Sciences Term Trust | BMEZ |
+| 14 | 100 | $17.88 | [Chart](https://www.tradingview.com/chart/?symbol=ZTO) | ZTO Express (Cayman) Inc. American Depositary Shares, each representing one Class A ordinary share | ZTO |
+| 2 | 99 | $10.33 | [Chart](https://www.tradingview.com/chart/?symbol=EMBC) | Embecta Corp. Common Stock | EMBC |
+| 9 | 99 | $38.54 | [Chart](https://www.tradingview.com/chart/?symbol=LKQ) | LKQ Corporation | LKQ |
+| 17 | 99 | $29.12 | [Chart](https://www.tradingview.com/chart/?symbol=SPTS) | SPDR Portfolio Short Term Treasury ETF | SPTS |
+| 5 | 98 | $10.82 | [Chart](https://www.tradingview.com/chart/?symbol=SONO) | Sonos, Inc. Common Stock | SONO |
+| 7 | 98 | $26.61 | [Chart](https://www.tradingview.com/chart/?symbol=VCYT) | Veracyte, Inc. | VCYT |
+| 9 | 98 | $62.01 | [Chart](https://www.tradingview.com/chart/?symbol=ELS) | Equity Lifestyle Properties, Inc. | ELS |
+| 10 | 98 | $14.99 | [Chart](https://www.tradingview.com/chart/?symbol=SEM) | SELECT MEDICAL HOLDINGS CORP | SEM |
+| 18 | 98 | $86.19 | [Chart](https://www.tradingview.com/chart/?symbol=SIGI) | Selective Insurance Group | SIGI |
+| 8 | 97 | $27.50 | [Chart](https://www.tradingview.com/chart/?symbol=GTY) | Getty Realty Corp. | GTY |
+| 8 | 97 | $48.45 | [Chart](https://www.tradingview.com/chart/?symbol=SNY) | Sanofi American Depositary Shares (Each representing one-half of one ordinary share) | SNY |
+| 15 | 97 | $25.29 | [Chart](https://www.tradingview.com/chart/?symbol=SPAB) | SPDR Portfolio Aggregate Bond ETF | SPAB |
 | 6 | 96 | $25.28 | [Chart](https://www.tradingview.com/chart/?symbol=DRV) | Direxion Daily Real Estate Bear 3X Shares | DRV |
-| 8 | 95 | $71.24 | [Chart](https://www.tradingview.com/chart/?symbol=RLI) | RLI Corp. | RLI |
 | 10 | 95 | $76.49 | [Chart](https://www.tradingview.com/chart/?symbol=CNS) | Cohen & Steers Inc. | CNS |
 | 11 | 95 | $76.47 | [Chart](https://www.tradingview.com/chart/?symbol=AWR) | American States Water Company | AWR |
 | 7 | 94 | $129.71 | [Chart](https://www.tradingview.com/chart/?symbol=ICUI) | ICU Medical Inc | ICUI |
-| 16 | 94 | $15.97 | [Chart](https://www.tradingview.com/chart/?symbol=BNL) | Broadstone Net Lease, Inc. | BNL |
-| 12 | 93 | $21.64 | [Chart](https://www.tradingview.com/chart/?symbol=TUA) | Simplify Short Term Treasury Futures Strategy ETF | TUA |
+| 8 | 94 | $71.52 | [Chart](https://www.tradingview.com/chart/?symbol=RLI) | RLI Corp. | RLI |
+| 14 | 94 | $21.26 | [Chart](https://www.tradingview.com/chart/?symbol=FLCB) | Franklin U.S. Core Bond ETF | FLCB |
+| 16 | 94 | $16.02 | [Chart](https://www.tradingview.com/chart/?symbol=BNL) | Broadstone Net Lease, Inc. | BNL |
+| 11 | 93 | $21.64 | [Chart](https://www.tradingview.com/chart/?symbol=TUA) | Simplify Short Term Treasury Futures Strategy ETF | TUA |
 | 17 | 93 | $32.35 | [Chart](https://www.tradingview.com/chart/?symbol=INVH) | Invitation Homes Inc. Common Stock | INVH |
-| 18 | 92 | $47.43 | [Chart](https://www.tradingview.com/chart/?symbol=KBR) | KBR, Inc. | KBR |
-| 18 | 92 | $22.84 | [Chart](https://www.tradingview.com/chart/?symbol=IBTG) | iShares iBonds Dec 2026 Term Treasury ETF | IBTG |
+| 17 | 92 | $22.84 | [Chart](https://www.tradingview.com/chart/?symbol=IBTG) | iShares iBonds Dec 2026 Term Treasury ETF | IBTG |
 | 12 | 91 | $68.82 | [Chart](https://www.tradingview.com/chart/?symbol=BRC) | Brady Corporation | BRC |
-| 14 | 91 | $39.65 | [Chart](https://www.tradingview.com/chart/?symbol=TOTL) | SSgA Active ETF Trust SPDR DoubleLine Total Return Tactical ETF | TOTL |
-| 15 | 91 | $34.43 | [Chart](https://www.tradingview.com/chart/?symbol=PECO) | Phillips Edison & Company, Inc. Common Stock | PECO |
-| 17 | 91 | $13.95 | [Chart](https://www.tradingview.com/chart/?symbol=DOLE) | Dole plc | DOLE |
-| 22 | 90 | $105.05 | [Chart](https://www.tradingview.com/chart/?symbol=DEO) | Diageo plc | DEO |
-| 22 | 90 | $83.85 | [Chart](https://www.tradingview.com/chart/?symbol=KSPI) | Joint Stock Company Kaspi.kz American Depository Shares | KSPI |
-| 12 | 89 | $26.77 | [Chart](https://www.tradingview.com/chart/?symbol=FCPT) | Four Corners Property Trust, Inc. | FCPT |
-| 13 | 89 | $31.93 | [Chart](https://www.tradingview.com/chart/?symbol=SUPN) | Supernus Pharmaceuticals, Inc. | SUPN |
-| 15 | 89 | $22.95 | [Chart](https://www.tradingview.com/chart/?symbol=SCHZ) | Schwab US Aggregate Bond ETF | SCHZ |
-| 15 | 87 | $97.98 | [Chart](https://www.tradingview.com/chart/?symbol=AGG) | iShares Core U.S. Aggregate Bond ETF | AGG |
-| 24 | 87 | $60.96 | [Chart](https://www.tradingview.com/chart/?symbol=UL) | Unilever plc | UL |
-| 16 | 86 | $105.05 | [Chart](https://www.tradingview.com/chart/?symbol=DECK) | Deckers Outdoor Corp | DECK |
-| 22 | 86 | $340.37 | [Chart](https://www.tradingview.com/chart/?symbol=EG) | Everest Group, Ltd. | EG |
-| 16 | 85 | $26.84 | [Chart](https://www.tradingview.com/chart/?symbol=IVT) | InvenTrust Properties Corp. | IVT |
-| 16 | 84 | $20.38 | [Chart](https://www.tradingview.com/chart/?symbol=CON) | Concentra Group Holdings Parent, Inc. | CON |
-| 21 | 84 | $35.63 | [Chart](https://www.tradingview.com/chart/?symbol=AMH) | AMERICAN HOMES 4 RENT | AMH |
-| 19 | 83 | $110.15 | [Chart](https://www.tradingview.com/chart/?symbol=SHV) | iShares Short Treasury Bond ETF | SHV |
-| 24 | 83 | $23.11 | [Chart](https://www.tradingview.com/chart/?symbol=IBHF) | iShares iBonds 2026 Term High Yield and Income ETF | IBHF |
-| 24 | 81 | $35.25 | [Chart](https://www.tradingview.com/chart/?symbol=LTC) | LTC Properties, Inc. | LTC |
-| 24 | 81 | $19.11 | [Chart](https://www.tradingview.com/chart/?symbol=MSDL) | Morgan Stanley Direct Lending Fund | MSDL |
-| 26 | 81 | $12.69 | [Chart](https://www.tradingview.com/chart/?symbol=PCN) | PIMCO Corporate & Income Strategy Fund | PCN |
-| 27 | 81 | $117.83 | [Chart](https://www.tradingview.com/chart/?symbol=ITGR) | Integer Holdings Corporation | ITGR |
-| 23 | 80 | $295.69 | [Chart](https://www.tradingview.com/chart/?symbol=UTHR) | United Therapeutics Corp | UTHR |
-| 24 | 80 | $41.09 | [Chart](https://www.tradingview.com/chart/?symbol=UDR) | UDR, Inc. | UDR |
-| 29 | 78 | $345.71 | [Chart](https://www.tradingview.com/chart/?symbol=SHW) | The Sherwin-Williams Company | SHW |
-| 35 | 78 | $463.03 | [Chart](https://www.tradingview.com/chart/?symbol=LMT) | Lockheed Martin Corp. | LMT |
-| 25 | 77 | $70.05 | [Chart](https://www.tradingview.com/chart/?symbol=AZN) | AstraZeneca PLC | AZN |
-| 28 | 77 | $30.86 | [Chart](https://www.tradingview.com/chart/?symbol=AXTA) | Axalta Coating Systems Ltd. | AXTA |
-| 30 | 77 | $21.20 | [Chart](https://www.tradingview.com/chart/?symbol=SPT) | Sprout Social, Inc Class A Common Stock | SPT |
-| 31 | 77 | $30.33 | [Chart](https://www.tradingview.com/chart/?symbol=BAX) | Baxter International Inc. | BAX |
-| 25 | 76 | $25.85 | [Chart](https://www.tradingview.com/chart/?symbol=TBBB) | BBB Foods Inc. | TBBB |
-| 27 | 75 | $240.54 | [Chart](https://www.tradingview.com/chart/?symbol=RNR) | RenaissanceRe Holdings Ltd. | RNR |
-| 32 | 74 | $12.13 | [Chart](https://www.tradingview.com/chart/?symbol=DSL) | DOUBLELINE INCOME SOLUTIONS FUND | DSL |
-| 31 | 73 | $17.36 | [Chart](https://www.tradingview.com/chart/?symbol=NVCR) | NovoCure Limited Ordinary Shares | NVCR |
-| 33 | 73 | $303.05 | [Chart](https://www.tradingview.com/chart/?symbol=ACN) | Accenture PLC | ACN |
-| 31 | 72 | $39.21 | [Chart](https://www.tradingview.com/chart/?symbol=LZB) | La-Z-Boy Incorporated | LZB |
-| 36 | 72 | $103.85 | [Chart](https://www.tradingview.com/chart/?symbol=FMX) | FOMENTO ECONOMICO MEXICANO, S.A.B. DE C.V. | FMX |
-| 39 | 70 | $29.25 | [Chart](https://www.tradingview.com/chart/?symbol=CRNX) | Crinetics Pharmaceuticals, Inc. | CRNX |
-| 33 | 67 | $25.43 | [Chart](https://www.tradingview.com/chart/?symbol=BRX) | BRIXMOR PROPERTY GROUP INC. | BRX |
+| 14 | 91 | $39.66 | [Chart](https://www.tradingview.com/chart/?symbol=TOTL) | SSgA Active ETF Trust SPDR DoubleLine Total Return Tactical ETF | TOTL |
+| 15 | 91 | $34.54 | [Chart](https://www.tradingview.com/chart/?symbol=PECO) | Phillips Edison & Company, Inc. Common Stock | PECO |
+| 18 | 91 | $47.47 | [Chart](https://www.tradingview.com/chart/?symbol=KBR) | KBR, Inc. | KBR |
+| 18 | 90 | $14.01 | [Chart](https://www.tradingview.com/chart/?symbol=DOLE) | Dole plc | DOLE |
+| 12 | 89 | $26.83 | [Chart](https://www.tradingview.com/chart/?symbol=FCPT) | Four Corners Property Trust, Inc. | FCPT |
+| 13 | 89 | $32.10 | [Chart](https://www.tradingview.com/chart/?symbol=SUPN) | Supernus Pharmaceuticals, Inc. | SUPN |
+| 22 | 89 | $83.82 | [Chart](https://www.tradingview.com/chart/?symbol=KSPI) | Joint Stock Company Kaspi.kz American Depository Shares | KSPI |
+| 23 | 88 | $105.18 | [Chart](https://www.tradingview.com/chart/?symbol=DEO) | Diageo plc | DEO |
+| 15 | 87 | $98.01 | [Chart](https://www.tradingview.com/chart/?symbol=AGG) | iShares Core U.S. Aggregate Bond ETF | AGG |
+| 16 | 86 | $105.30 | [Chart](https://www.tradingview.com/chart/?symbol=DECK) | Deckers Outdoor Corp | DECK |
+| 24 | 86 | $61.02 | [Chart](https://www.tradingview.com/chart/?symbol=UL) | Unilever plc | UL |
+| 15 | 85 | $20.38 | [Chart](https://www.tradingview.com/chart/?symbol=CON) | Concentra Group Holdings Parent, Inc. | CON |
+| 16 | 85 | $26.88 | [Chart](https://www.tradingview.com/chart/?symbol=IVT) | InvenTrust Properties Corp. | IVT |
+| 23 | 84 | $341.90 | [Chart](https://www.tradingview.com/chart/?symbol=EG) | Everest Group, Ltd. | EG |
+| 21 | 83 | $35.60 | [Chart](https://www.tradingview.com/chart/?symbol=AMH) | AMERICAN HOMES 4 RENT | AMH |
+| 24 | 83 | $23.10 | [Chart](https://www.tradingview.com/chart/?symbol=IBHF) | iShares iBonds 2026 Term High Yield and Income ETF | IBHF |
+| 19 | 82 | $110.14 | [Chart](https://www.tradingview.com/chart/?symbol=SHV) | iShares Short Treasury Bond ETF | SHV |
+| 23 | 82 | $19.09 | [Chart](https://www.tradingview.com/chart/?symbol=MSDL) | Morgan Stanley Direct Lending Fund | MSDL |
+| 22 | 81 | $295.49 | [Chart](https://www.tradingview.com/chart/?symbol=UTHR) | United Therapeutics Corp | UTHR |
+| 23 | 80 | $41.17 | [Chart](https://www.tradingview.com/chart/?symbol=UDR) | UDR, Inc. | UDR |
+| 26 | 80 | $12.69 | [Chart](https://www.tradingview.com/chart/?symbol=PCN) | PIMCO Corporate & Income Strategy Fund | PCN |
+| 28 | 80 | $118.03 | [Chart](https://www.tradingview.com/chart/?symbol=ITGR) | Integer Holdings Corporation | ITGR |
+| 28 | 79 | $21.04 | [Chart](https://www.tradingview.com/chart/?symbol=SPT) | Sprout Social, Inc Class A Common Stock | SPT |
+| 38 | 79 | $18.38 | [Chart](https://www.tradingview.com/chart/?symbol=S) | SentinelOne, Inc. | S |
+| 29 | 78 | $346.37 | [Chart](https://www.tradingview.com/chart/?symbol=SHW) | The Sherwin-Williams Company | SHW |
+| 27 | 77 | $30.79 | [Chart](https://www.tradingview.com/chart/?symbol=AXTA) | Axalta Coating Systems Ltd. | AXTA |
+| 36 | 77 | $463.95 | [Chart](https://www.tradingview.com/chart/?symbol=LMT) | Lockheed Martin Corp. | LMT |
+| 25 | 76 | $106.53 | [Chart](https://www.tradingview.com/chart/?symbol=PDD) | PDD Holdings Inc. American Depositary Shares | PDD |
+| 32 | 76 | $30.36 | [Chart](https://www.tradingview.com/chart/?symbol=BAX) | Baxter International Inc. | BAX |
+| 25 | 75 | $25.84 | [Chart](https://www.tradingview.com/chart/?symbol=TBBB) | BBB Foods Inc. | TBBB |
+| 27 | 74 | $241.05 | [Chart](https://www.tradingview.com/chart/?symbol=RNR) | RenaissanceRe Holdings Ltd. | RNR |
+| 30 | 74 | $17.27 | [Chart](https://www.tradingview.com/chart/?symbol=NVCR) | NovoCure Limited Ordinary Shares | NVCR |
+| 32 | 74 | $12.12 | [Chart](https://www.tradingview.com/chart/?symbol=DSL) | DOUBLELINE INCOME SOLUTIONS FUND | DSL |
+| 33 | 73 | $302.92 | [Chart](https://www.tradingview.com/chart/?symbol=ACN) | Accenture PLC | ACN |
+| 31 | 72 | $39.24 | [Chart](https://www.tradingview.com/chart/?symbol=LZB) | La-Z-Boy Incorporated | LZB |
+| 38 | 71 | $29.23 | [Chart](https://www.tradingview.com/chart/?symbol=CRNX) | Crinetics Pharmaceuticals, Inc. | CRNX |
+| 34 | 67 | $15.50 | [Chart](https://www.tradingview.com/chart/?symbol=PLSE) | Pulse Biosciences, Inc Common Stock (DE) | PLSE |
+| 34 | 66 | $25.55 | [Chart](https://www.tradingview.com/chart/?symbol=BRX) | BRIXMOR PROPERTY GROUP INC. | BRX |
 
 ## **Methodology**
 
